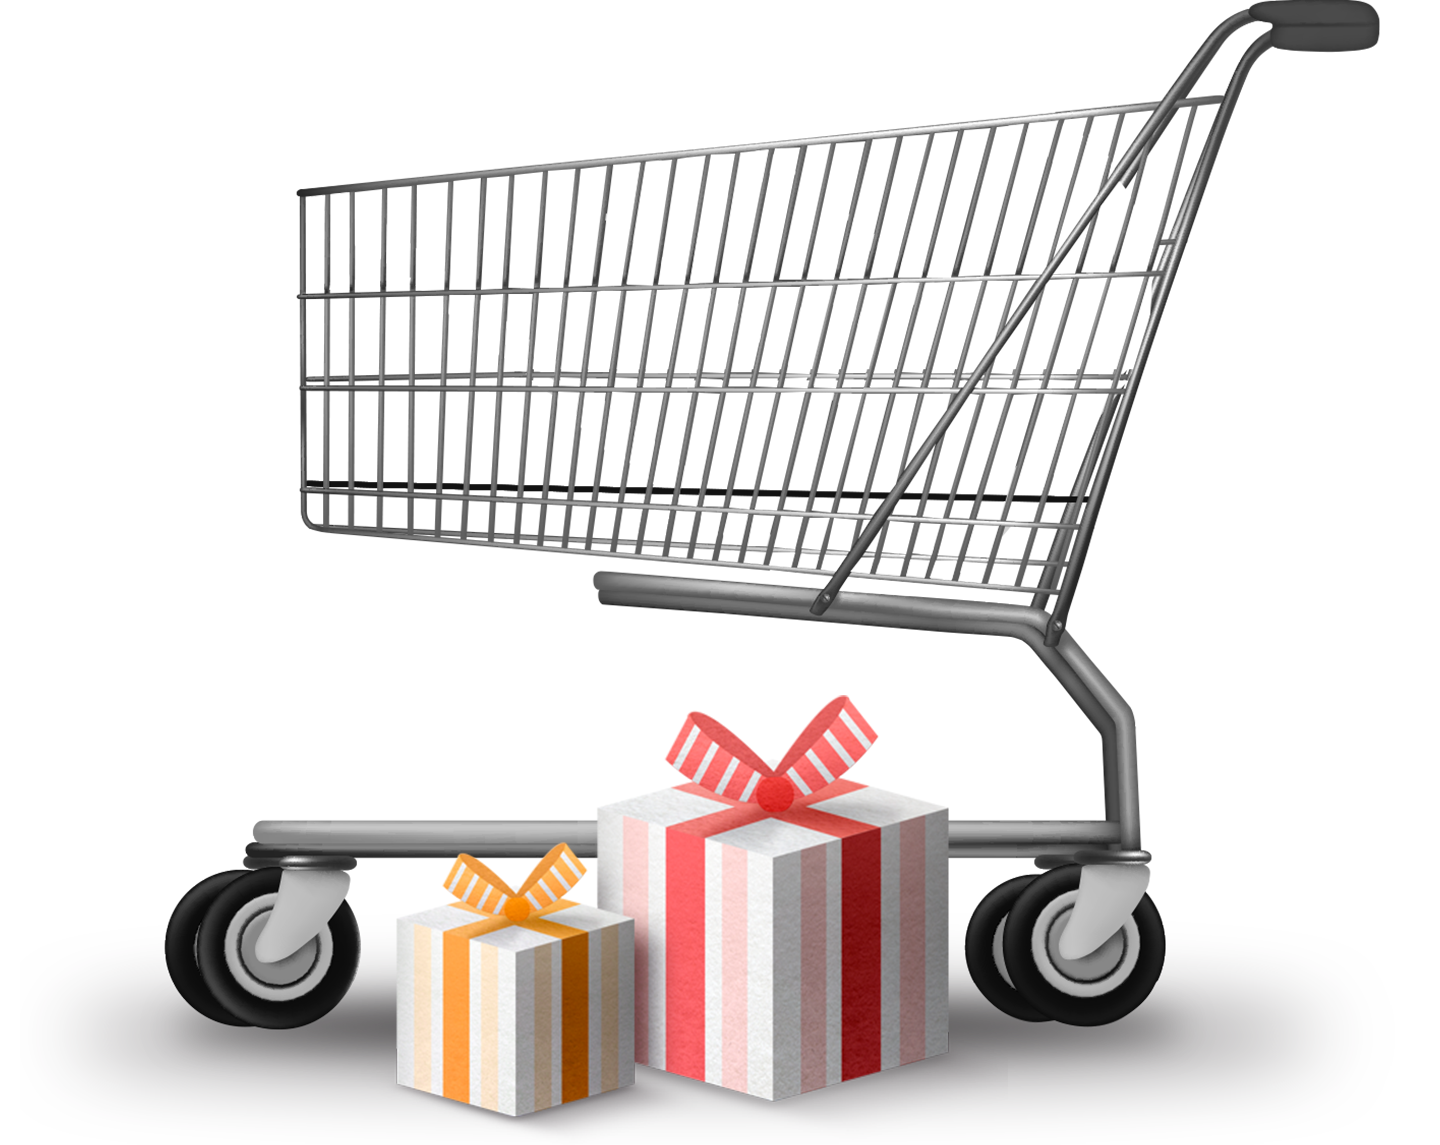
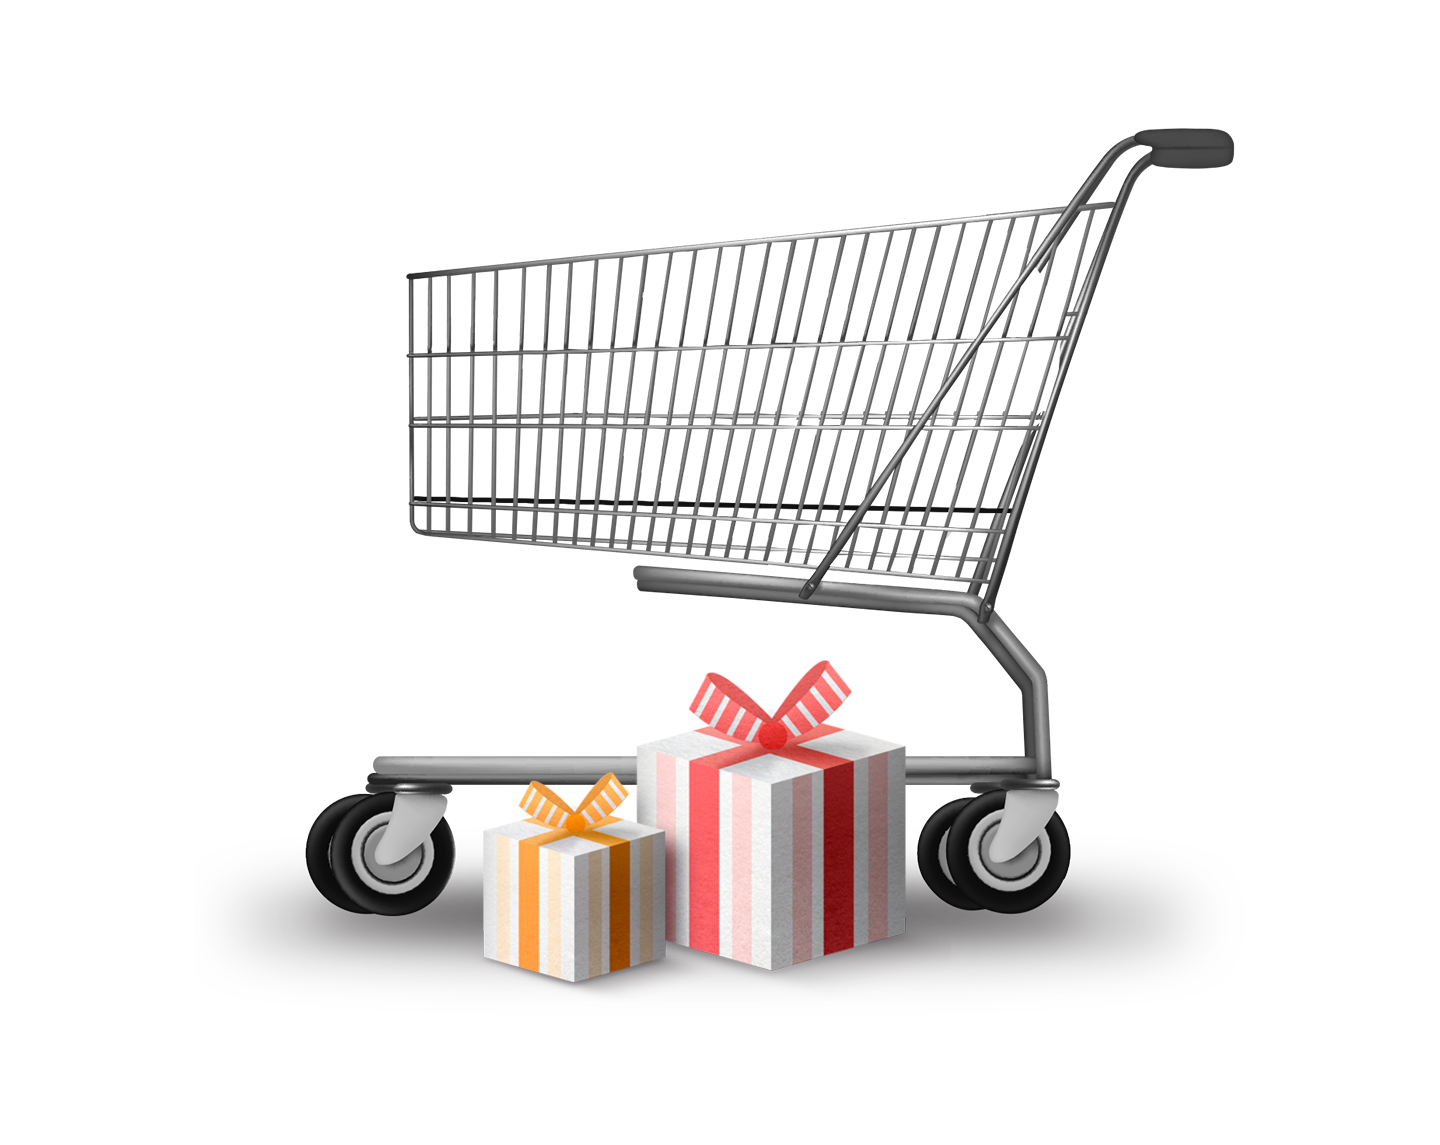
换图 改样式

diff --git a/public/css/common.css b/public/css/common.css
@@ -5325,13 +5325,13 @@ a:active {
 
 .scenario-detail-list {
   position: relative;
-  width: 1240px;
-  margin: 17px auto 0;
+  width: 1120px;
+  margin: 15px auto 30px;
   text-align: left
 }
 
 .scenario-detail-list::before {
-  background: #979797
+  background: transparent;
 }
 
 .scenario-detail-list .scenario-detail-item {
@@ -5451,16 +5451,15 @@ a:active {
 .scenario-detail-list .scenario-detail-item .scenario-detail-right {
   width: 720px;
   position: absolute;
-  top: 0;
   bottom: 0;
-  left: 570px;
+  right: 0;
   overflow: hidden
 }
 
 .scenario-detail-list .scenario-detail-item .scenario-detail-right > img {
   width: 100%;
-  position: absolute;
-  bottom: 0
+  /*position: absolute;*/
+  /*bottom: 0*/
 }
 
 .scenario-download, .scenario-download * {

diff --git a/public/css/joinus.css b/public/css/joinus.css
@@ -93,6 +93,7 @@ a.supply-join {
 
 .section3 li .wraper {
   box-sizing: border-box;
+  height: 310px;
   margin: 0 10px;
   padding: 20px;
   background-color: #fff;
